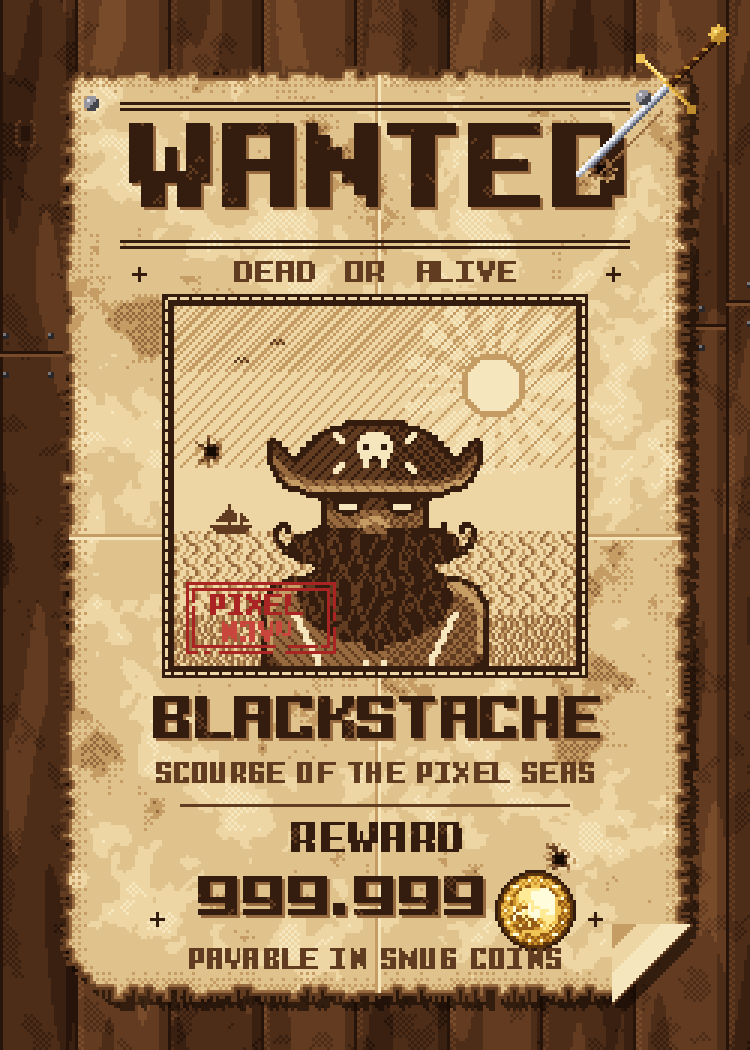
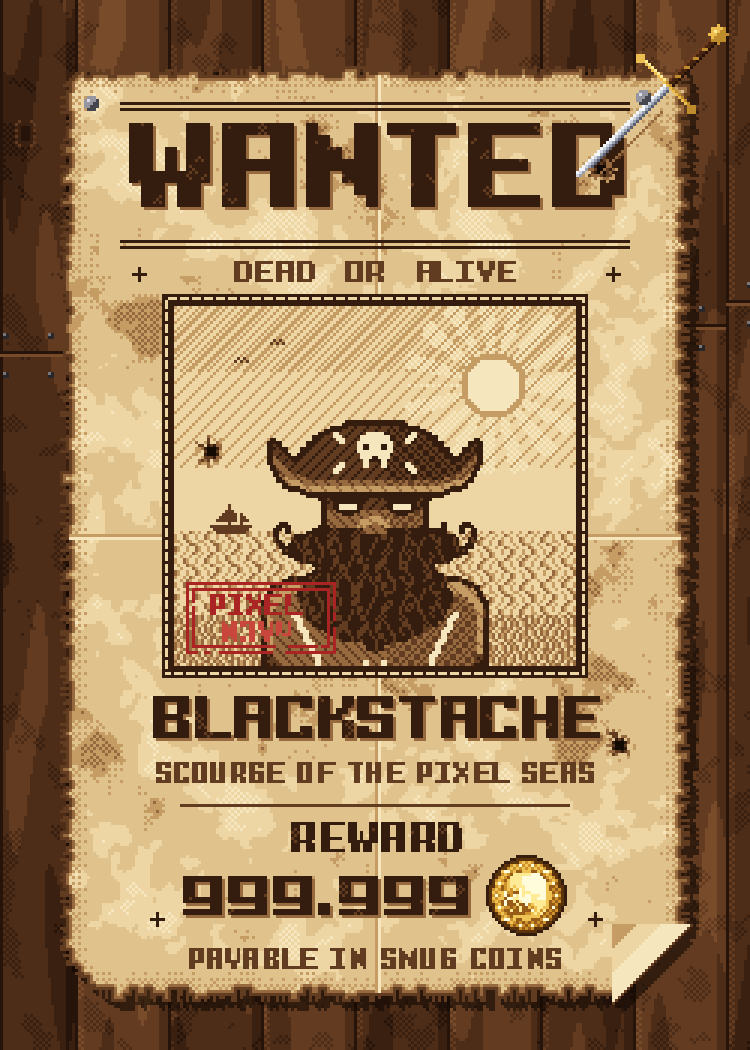
Wanted sleeve: centre Smug Coin on the reward number
Coin is now vertically centred on the digits and the number+coin group is
centred horizontally; moved the overlapping bullet hole.

Claude-Session: https://claude.ai/code/session_01VrcjmiCcwnRFzcWeEK63jM

Changed region(s): [[0.2453, 0.7924, 0.7667, 0.9143], [0.7973, 0.701, 0.8587, 0.7314]]

diff --git a/data/sleeve-proposals/generator/v2_02_wanted.py b/data/sleeve-proposals/generator/v2_02_wanted.py
@@ -217,9 +217,12 @@ ink_text('BLACKSTACHE',20,125,232,INK,shadow=MD)
 ink_text('SCOURGE OF THE PIXEL SEAS',9,125,254,DK)
 rule(268,60,190,DK)
 ink_text('REWARD',14,125,274,INK)
-w,h=ink_text('999.999',22,113,292,INK,shadow=MD)
-coin=smug_coin(12)
-cv.paste(outline(coin,INK),113+w//2+5,290)
+coin=outline(smug_coin(12),INK)
+nm=text_mask('999.999',22); w,h=nm.shape[1],nm.shape[0]
+GAP=6
+x0=125-(w+GAP+coin.shape[1])//2          # centre the whole group (number + coin)
+ink_text('999.999',22,x0+w//2,292,INK,shadow=MD)
+cv.paste(coin,x0+w+GAP,292+h//2-coin.shape[0]//2)   # coin vertically centred on the digits
 star(52,306); star(198,306)
 ink_text('PAYABLE IN SMUG COINS',9,125,316,DK)
 # ---------- red stamp ----------
@@ -247,7 +250,7 @@ def hole(cx,cy):
     for k in range(6):
         a=random.random()*6.28; L=random.randint(4,7)
         for r in range(3,L): cv.px(int(cx+math.cos(a)*r),int(cy+math.sin(a)*r),DK if r<5 else MD)
-hole(200,56); hole(70,150); hole(186,286)
+hole(200,56); hole(70,150); hole(206,248)
 # ---------- dagger (top-right) ----------
 BL=[(90,96,112),(150,158,176),(206,212,226),(244,248,252)]
 tipx,tipy=192,58
